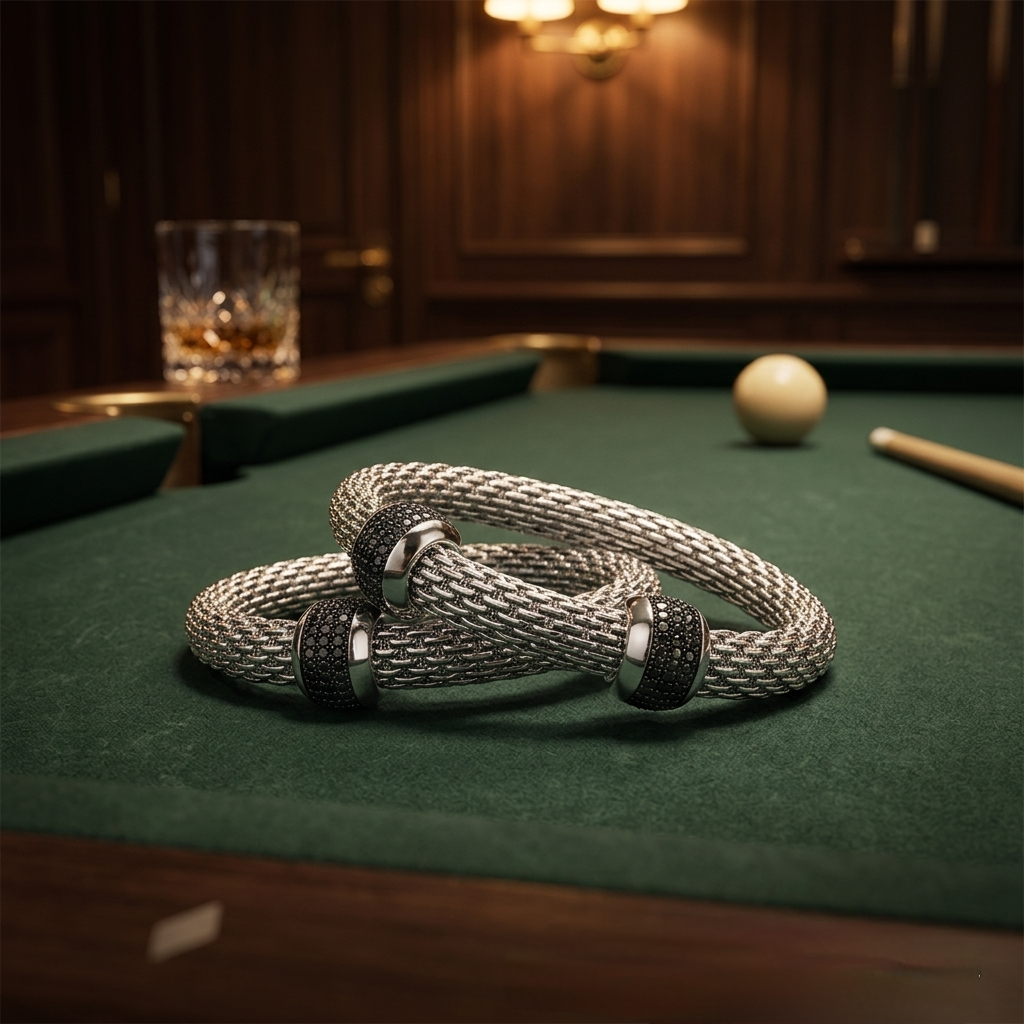
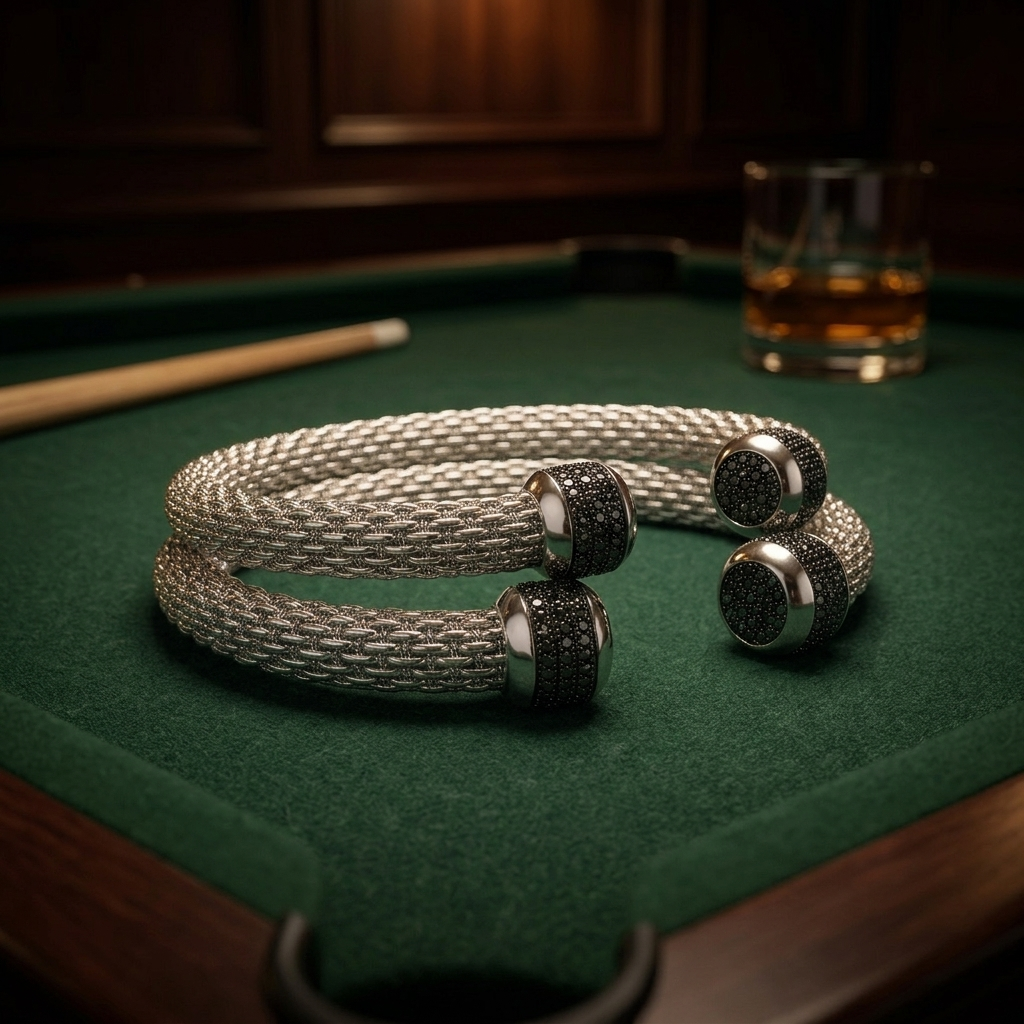
auto-commit for 69b0487f-c995-4de4-a022-9e2928a0bd92

diff --git a/backend/scripts/regen_midweek_hero_v3.py b/backend/scripts/regen_midweek_hero_v3.py
@@ -1,0 +1,109 @@
+"""Re-render the MIDWEEK hero (slot 1) to match the FINAL design lock:
+slip-on open C-shape cuff, EXACTLY two black-diamond pavé end caps, no
+middle pavé. Two cuffs stacked naturally on green felt in a dark
+billiard-room environment.
+
+Identity reference: the just-regened single-felt shot (02_single_felt.png)
+which already passes the design lock. We do NOT use the user's original
+3-section reference photo because it tempts the model to copy the wrong
+pavé count.
+"""
+from __future__ import annotations
+
+import asyncio
+import base64
+import os
+import sys
+import uuid
+from pathlib import Path
+
+from dotenv import load_dotenv
+from emergentintegrations.llm.chat import LlmChat, UserMessage, ImageContent
+
+load_dotenv("/app/backend/.env")
+
+REF = Path("/app/frontend/public/midweek/02_single_felt.png")
+OUT = Path("/app/frontend/public/midweek/01_hero.png")
+
+PROMPT = (
+    "Take the EXACT cuff visible in the reference image — a slip-on OPEN "
+    "C-SHAPE sterling silver woven cuff with EXACTLY TWO black-diamond pavé "
+    "END CAPS at the open terminals (and NO middle pavé) — and re-shoot it "
+    "with TWO COPIES of the same cuff stacked naturally in a HERO STACK "
+    "composition.\n\n"
+    "SCENE — DARK BILLIARD ROOM:\n"
+    "• Deep GREEN BILLIARD-FELT pool table\n"
+    "• Warm tungsten lighting from above (lamp-shade glow), dark walnut "
+    "panelling deep in the background\n"
+    "• Quiet after-hours luxury atmosphere — successful people disappearing "
+    "for a few quiet hours midweek\n\n"
+    "COMPOSITION — TWO CUFFS STACKED NATURALLY:\n"
+    "• Two slip-on open cuffs, IDENTICAL to the reference cuff in every "
+    "way (same weave, same TWO end-cap pavé layout, same open C-shape)\n"
+    "• Asymmetrical, lived-in placement: one cuff lying flat on the felt, "
+    "the second cuff slightly OVERLAPPING the first (resting partially on "
+    "top of it). Open terminals of both cuffs visible. Black pavé end "
+    "caps clearly readable on at least three of the four total caps.\n"
+    "• Feels worn / placed-after-a-late-game — NOT a centered showroom "
+    "product display, NOT a symmetrical catalog layout.\n\n"
+    "OPTIONAL SUBTLE ENVIRONMENTAL ELEMENTS (softly out of focus, never "
+    "competing with the cuffs):\n"
+    "• A wooden cue stick partially visible at one edge of the frame\n"
+    "• A softly blurred billiard ball further into the background\n"
+    "• A faint reflection of an amber-whisky tumbler in the deep "
+    "background bokeh — but the glass itself can be cropped or barely-"
+    "implied; do not put it in focus.\n\n"
+    "RULES — STRICT, FAIL CRITERIA:\n"
+    "• EXACTLY TWO cuffs. Never one, never three.\n"
+    "• Each cuff must be a SLIP-ON OPEN C-SHAPE with a clearly visible gap "
+    "at the open end. NEVER a closed bangle.\n"
+    "• Each cuff has EXACTLY TWO black-diamond pavé end caps at the open "
+    "terminals. NO middle pavé. NO third or fourth pavé station. NO extra "
+    "collars. NO continuous black-diamond pattern around the body.\n"
+    "• Both cuffs are identical in design. NO design variation between them.\n"
+    "• The jewelry must be the BRIGHTEST object in the frame. The "
+    "environment recedes into shadow.\n\n"
+    "STYLE: 8K photoreal luxury editorial, cinematic moody lighting, "
+    "realistic polished sterling silver reflections, preserved woven "
+    "texture detail. NO logos, text, watermarks, or AI shimmer artefacts. "
+    "NO neon club lighting, NO tropical elements, NO overexposed silver, "
+    "NO flashy luxury clichés."
+)
+
+
+async def main() -> int:
+    api_key = os.getenv("EMERGENT_LLM_KEY")
+    if not api_key: print("EMERGENT_LLM_KEY missing", file=sys.stderr); return 1
+    if not REF.exists(): print(f"Reference missing: {REF}", file=sys.stderr); return 2
+
+    ref_b64 = base64.b64encode(REF.read_bytes()).decode("utf-8")
+
+    chat = LlmChat(
+        api_key=api_key,
+        session_id=f"midweek-hero-final-{uuid.uuid4().hex[:8]}",
+        system_message=(
+            "You are a luxury men's editorial campaign photographer. The "
+            "product is a SLIP-ON OPEN CUFF (C-shape) with EXACTLY TWO "
+            "black-diamond pavé end caps at the open terminals — never "
+            "more, never less, never in the middle. Render TWO copies of "
+            "this cuff stacked naturally in a dark billiard-room hero "
+            "composition. No logos, text, or watermark."
+        ),
+    )
+    chat.with_model("gemini", "gemini-3.1-flash-image-preview").with_params(
+        modalities=["image", "text"]
+    )
+
+    msg = UserMessage(text=PROMPT, file_contents=[ImageContent(ref_b64)])
+    text, images = await chat.send_message_multimodal_response(msg)
+
+    if not images:
+        print(f"[FAIL] no image. text={(text or '')[:200]!r}"); return 3
+
+    OUT.write_bytes(base64.b64decode(images[0]["data"]))
+    print(f"[ok] {OUT} ({OUT.stat().st_size//1024} KB)")
+    return 0
+
+
+if __name__ == "__main__":
+    sys.exit(asyncio.run(main()))
